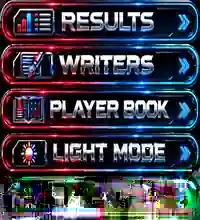
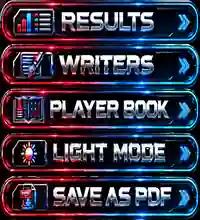
GAMBIT: verify exact neon button sprite bytes and refresh report stylesheet cache

Changed region(s): [[0.0, 0.7091, 1.0, 1.0]]

diff --git a/cfb/index.html b/cfb/index.html
@@ -91,7 +91,7 @@ code{font-family:Consolas,monospace;font-size:.88em;color:var(--code);}
 #g7:checked ~ .shell .rail label[for=g7]{background:var(--accent);color:#fff;border-color:var(--accent);}
 #g7:checked ~ .shell main .p7{display:block;}
 .site-header{position:sticky;top:0;z-index:50;background:var(--bg,#161616);border-bottom:1px solid var(--rail-line,#393939);padding:.35rem .75rem;}a.gambit-home{display:block;line-height:0;text-decoration:none;border-radius:.55rem;overflow:hidden;max-width:64rem;margin:0 auto;}a.gambit-home img{display:block;width:100%;height:auto;}.rail button.theme{display:block;width:100%;box-sizing:border-box;font:inherit;font-size:.88rem;font-weight:700;cursor:pointer;background:transparent;color:var(--pill-fg,var(--fg));border:1px solid var(--pill-line,var(--line,#525252));border-radius:.5rem;padding:.62rem .85rem;min-height:2.35rem;text-align:center;}.rail button.theme:hover{background:var(--pill-hover,var(--pill,#393939));}</style>
-<link rel="stylesheet" data-gambit-responsive="1" href="../assets/gambit-responsive.css?v=20261029"/>
+<link rel="stylesheet" data-gambit-responsive="1" href="../assets/gambit-responsive.css?v=20261030-nav2"/>
 </head><body>
 <header class="site-header noprint"><a class="gambit-home" href="../hub.html"><img src="../assets/gambit-home.jpg" alt="GAMBIT Home"/></a></header>
 <input class="tab" type="radio" name="g" id="g0" checked/>

diff --git a/nfl/2026-09-20.html b/nfl/2026-09-20.html
@@ -129,7 +129,7 @@ html.rail-closed .rail > *:not(.rail-head){display:none !important;}
 html.rail-closed .rail .rail-head{margin:0;width:100%;}
 html.rail-closed .rail .rail-head .brand{display:none;}
 .site-header{position:sticky;top:0;z-index:50;background:var(--bg,#161616);border-bottom:1px solid var(--rail-line,#393939);padding:.35rem .75rem;}a.gambit-home{display:block;line-height:0;text-decoration:none;border-radius:.55rem;overflow:hidden;max-width:64rem;margin:0 auto;}a.gambit-home img{display:block;width:100%;height:auto;}.rail button.theme{display:block;width:100%;box-sizing:border-box;font:inherit;font-size:.88rem;font-weight:700;cursor:pointer;background:transparent;color:var(--pill-fg,var(--fg));border:1px solid var(--pill-line,var(--line,#525252));border-radius:.5rem;padding:.62rem .85rem;min-height:2.35rem;text-align:center;}.rail button.theme:hover{background:var(--pill-hover,var(--pill,#393939));}</style>
-<link rel="stylesheet" data-gambit-responsive="1" href="../assets/gambit-responsive.css?v=20261029"/>
+<link rel="stylesheet" data-gambit-responsive="1" href="../assets/gambit-responsive.css?v=20261030-nav2"/>
 </head><body>
 <header class="site-header noprint"><a class="gambit-home" href="../hub.html"><img src="../assets/gambit-home.jpg" alt="GAMBIT Home"/></a></header>
 <input class="tab" type="radio" name="g" id="g0" checked/>

diff --git a/nfl/2026-09-27.html b/nfl/2026-09-27.html
@@ -127,7 +127,7 @@ html.rail-closed .rail > *:not(.rail-head){display:none !important;}
 html.rail-closed .rail .rail-head{margin:0;width:100%;}
 html.rail-closed .rail .rail-head .brand{display:none;}
 .site-header{position:sticky;top:0;z-index:50;background:var(--bg,#161616);border-bottom:1px solid var(--rail-line,#393939);padding:.35rem .75rem;}a.gambit-home{display:block;line-height:0;text-decoration:none;border-radius:.55rem;overflow:hidden;max-width:64rem;margin:0 auto;}a.gambit-home img{display:block;width:100%;height:auto;}.rail button.theme{display:block;width:100%;box-sizing:border-box;font:inherit;font-size:.88rem;font-weight:700;cursor:pointer;background:transparent;color:var(--pill-fg,var(--fg));border:1px solid var(--pill-line,var(--line,#525252));border-radius:.5rem;padding:.62rem .85rem;min-height:2.35rem;text-align:center;}.rail button.theme:hover{background:var(--pill-hover,var(--pill,#393939));}</style>
-<link rel="stylesheet" data-gambit-responsive="1" href="../assets/gambit-responsive.css?v=20261029"/>
+<link rel="stylesheet" data-gambit-responsive="1" href="../assets/gambit-responsive.css?v=20261030-nav2"/>
 </head><body>
 <header class="site-header noprint"><a class="gambit-home" href="../hub.html"><img src="../assets/gambit-home.jpg" alt="GAMBIT Home"/></a></header>
 <input class="tab" type="radio" name="g" id="g0" checked/>

diff --git a/nfl/2026-10-18.html b/nfl/2026-10-18.html
@@ -115,7 +115,7 @@ html.rail-closed .rail > *:not(.rail-head){display:none !important;}
 html.rail-closed .rail .rail-head{margin:0;width:100%;}
 html.rail-closed .rail .rail-head .brand{display:none;}
 .site-header{position:sticky;top:0;z-index:50;background:var(--bg,#161616);border-bottom:1px solid var(--rail-line,#393939);padding:.35rem .75rem;}a.gambit-home{display:block;line-height:0;text-decoration:none;border-radius:.55rem;overflow:hidden;max-width:64rem;margin:0 auto;}a.gambit-home img{display:block;width:100%;height:auto;}.rail button.theme{display:block;width:100%;box-sizing:border-box;font:inherit;font-size:.88rem;font-weight:700;cursor:pointer;background:transparent;color:var(--pill-fg,var(--fg));border:1px solid var(--pill-line,var(--line,#525252));border-radius:.5rem;padding:.62rem .85rem;min-height:2.35rem;text-align:center;}.rail button.theme:hover{background:var(--pill-hover,var(--pill,#393939));}</style>
-<link rel="stylesheet" data-gambit-responsive="1" href="../assets/gambit-responsive.css?v=20261029"/>
+<link rel="stylesheet" data-gambit-responsive="1" href="../assets/gambit-responsive.css?v=20261030-nav2"/>
 </head><body>
 <header class="site-header noprint"><a class="gambit-home" href="../hub.html"><img src="../assets/gambit-home.jpg" alt="GAMBIT Home"/></a></header>
 <input class="tab" type="radio" name="g" id="g0" checked/>

diff --git a/nfl/2026-10-19.html b/nfl/2026-10-19.html
@@ -101,7 +101,7 @@ html.rail-closed .rail > *:not(.rail-head){display:none !important;}
 html.rail-closed .rail .rail-head{margin:0;width:100%;}
 html.rail-closed .rail .rail-head .brand{display:none;}
 .site-header{position:sticky;top:0;z-index:50;background:var(--bg,#161616);border-bottom:1px solid var(--rail-line,#393939);padding:.35rem .75rem;}a.gambit-home{display:block;line-height:0;text-decoration:none;border-radius:.55rem;overflow:hidden;max-width:64rem;margin:0 auto;}a.gambit-home img{display:block;width:100%;height:auto;}.rail button.theme{display:block;width:100%;box-sizing:border-box;font:inherit;font-size:.88rem;font-weight:700;cursor:pointer;background:transparent;color:var(--pill-fg,var(--fg));border:1px solid var(--pill-line,var(--line,#525252));border-radius:.5rem;padding:.62rem .85rem;min-height:2.35rem;text-align:center;}.rail button.theme:hover{background:var(--pill-hover,var(--pill,#393939));}</style>
-<link rel="stylesheet" data-gambit-responsive="1" href="../assets/gambit-responsive.css?v=20261029"/>
+<link rel="stylesheet" data-gambit-responsive="1" href="../assets/gambit-responsive.css?v=20261030-nav2"/>
 </head><body>
 <header class="site-header noprint"><a class="gambit-home" href="../hub.html"><img src="../assets/gambit-home.jpg" alt="GAMBIT Home"/></a></header>
 <input class="tab" type="radio" name="g" id="g0" checked/>

diff --git a/cfb/2026-10-24.html b/cfb/2026-10-24.html
@@ -98,7 +98,7 @@ html.rail-closed .rail > *:not(.rail-head){display:none !important;}
 html.rail-closed .rail .rail-head{margin:0;width:100%;}
 html.rail-closed .rail .rail-head .brand{display:none;}
 .site-header{position:sticky;top:0;z-index:50;background:var(--bg,#161616);border-bottom:1px solid var(--rail-line,#393939);padding:.35rem .75rem;}a.gambit-home{display:block;line-height:0;text-decoration:none;border-radius:.55rem;overflow:hidden;max-width:64rem;margin:0 auto;}a.gambit-home img{display:block;width:100%;height:auto;}.rail button.theme{display:block;width:100%;box-sizing:border-box;font:inherit;font-size:.88rem;font-weight:700;cursor:pointer;background:transparent;color:var(--pill-fg,var(--fg));border:1px solid var(--pill-line,var(--line,#525252));border-radius:.5rem;padding:.62rem .85rem;min-height:2.35rem;text-align:center;}.rail button.theme:hover{background:var(--pill-hover,var(--pill,#393939));}</style>
-<link rel="stylesheet" data-gambit-responsive="1" href="../assets/gambit-responsive.css?v=20261029"/>
+<link rel="stylesheet" data-gambit-responsive="1" href="../assets/gambit-responsive.css?v=20261030-nav2"/>
 </head><body>
 <header class="site-header noprint"><a class="gambit-home" href="../hub.html"><img src="../assets/gambit-home.jpg" alt="GAMBIT Home"/></a></header>
 <input class="tab" type="radio" name="g" id="g0" checked/>

diff --git a/nfl/2026-09-14.html b/nfl/2026-09-14.html
@@ -82,7 +82,7 @@ html.rail-closed .rail > *:not(.rail-head){display:none !important;}
 html.rail-closed .rail .rail-head{margin:0;width:100%;}
 html.rail-closed .rail .rail-head .brand{display:none;}
 .site-header{position:sticky;top:0;z-index:50;background:var(--bg,#161616);border-bottom:1px solid var(--rail-line,#393939);padding:.35rem .75rem;}a.gambit-home{display:block;line-height:0;text-decoration:none;border-radius:.55rem;overflow:hidden;max-width:64rem;margin:0 auto;}a.gambit-home img{display:block;width:100%;height:auto;}.rail button.theme{display:block;width:100%;box-sizing:border-box;font:inherit;font-size:.88rem;font-weight:700;cursor:pointer;background:transparent;color:var(--pill-fg,var(--fg));border:1px solid var(--pill-line,var(--line,#525252));border-radius:.5rem;padding:.62rem .85rem;min-height:2.35rem;text-align:center;}.rail button.theme:hover{background:var(--pill-hover,var(--pill,#393939));}</style>
-<link rel="stylesheet" data-gambit-responsive="1" href="../assets/gambit-responsive.css?v=20261029"/>
+<link rel="stylesheet" data-gambit-responsive="1" href="../assets/gambit-responsive.css?v=20261030-nav2"/>
 </head><body>
 <header class="site-header noprint"><a class="gambit-home" href="../hub.html"><img src="../assets/gambit-home.jpg" alt="GAMBIT Home"/></a></header>
 <input class="tab" type="radio" name="g" id="g0" checked/>

diff --git a/nfl/2026-09-17.html b/nfl/2026-09-17.html
@@ -82,7 +82,7 @@ html.rail-closed .rail > *:not(.rail-head){display:none !important;}
 html.rail-closed .rail .rail-head{margin:0;width:100%;}
 html.rail-closed .rail .rail-head .brand{display:none;}
 .site-header{position:sticky;top:0;z-index:50;background:var(--bg,#161616);border-bottom:1px solid var(--rail-line,#393939);padding:.35rem .75rem;}a.gambit-home{display:block;line-height:0;text-decoration:none;border-radius:.55rem;overflow:hidden;max-width:64rem;margin:0 auto;}a.gambit-home img{display:block;width:100%;height:auto;}.rail button.theme{display:block;width:100%;box-sizing:border-box;font:inherit;font-size:.88rem;font-weight:700;cursor:pointer;background:transparent;color:var(--pill-fg,var(--fg));border:1px solid var(--pill-line,var(--line,#525252));border-radius:.5rem;padding:.62rem .85rem;min-height:2.35rem;text-align:center;}.rail button.theme:hover{background:var(--pill-hover,var(--pill,#393939));}</style>
-<link rel="stylesheet" data-gambit-responsive="1" href="../assets/gambit-responsive.css?v=20261029"/>
+<link rel="stylesheet" data-gambit-responsive="1" href="../assets/gambit-responsive.css?v=20261030-nav2"/>
 </head><body>
 <header class="site-header noprint"><a class="gambit-home" href="../hub.html"><img src="../assets/gambit-home.jpg" alt="GAMBIT Home"/></a></header>
 <input class="tab" type="radio" name="g" id="g0" checked/>

diff --git a/nfl/2026-10-29.html b/nfl/2026-10-29.html
@@ -102,7 +102,7 @@ h3.cursor-picks-title{display:block;width:max-content;max-width:100%;font-size:1
 html.light h3.cursor-picks-title{border-bottom-color:#8a6410;background:linear-gradient(180deg,#a67c12,#5c4308);-webkit-background-clip:text;background-clip:text;color:transparent;-webkit-text-fill-color:transparent;}
 @media print{.gpt-picks-block h3,h3.cursor-picks-title{color:#111 !important;-webkit-text-fill-color:#111 !important;background:none !important;border-bottom-color:#111 !important;}}
 </style>
-<link rel="stylesheet" data-gambit-responsive="1" href="../assets/gambit-responsive.css?v=20261029b"/>
+<link rel="stylesheet" data-gambit-responsive="1" href="../assets/gambit-responsive.css?v=20261030-nav2"/>
 </head><body>
 <header class="site-header noprint"><a class="gambit-home" href="../hub.html"><img src="../assets/gambit-home.jpg" alt="GAMBIT Home"/></a></header>
 <input class="tab" type="radio" name="g" id="g0" checked/>

diff --git a/nfl/index.html b/nfl/index.html
@@ -102,7 +102,7 @@ h3.cursor-picks-title{display:block;width:max-content;max-width:100%;font-size:1
 html.light h3.cursor-picks-title{border-bottom-color:#8a6410;background:linear-gradient(180deg,#a67c12,#5c4308);-webkit-background-clip:text;background-clip:text;color:transparent;-webkit-text-fill-color:transparent;}
 @media print{.gpt-picks-block h3,h3.cursor-picks-title{color:#111 !important;-webkit-text-fill-color:#111 !important;background:none !important;border-bottom-color:#111 !important;}}
 </style>
-<link rel="stylesheet" data-gambit-responsive="1" href="../assets/gambit-responsive.css?v=20261029b"/>
+<link rel="stylesheet" data-gambit-responsive="1" href="../assets/gambit-responsive.css?v=20261030-nav2"/>
 </head><body>
 <header class="site-header noprint"><a class="gambit-home" href="../hub.html"><img src="../assets/gambit-home.jpg" alt="GAMBIT Home"/></a></header>
 <input class="tab" type="radio" name="g" id="g0" checked/>

diff --git a/nfl/2026-10-25.html b/nfl/2026-10-25.html
@@ -112,7 +112,7 @@ code{font-family:Consolas,monospace;font-size:.88em;color:var(--code);}
 #g14:checked ~ .shell .rail label[for=g14]{background:var(--accent);color:#fff;border-color:var(--accent);}
 #g14:checked ~ .shell main .p14{display:block;}
 </style>
-<link rel="stylesheet" data-gambit-responsive="1" href="../assets/gambit-responsive.css?v=20261029"/>
+<link rel="stylesheet" data-gambit-responsive="1" href="../assets/gambit-responsive.css?v=20261030-nav2"/>
 </head><body>
 <header class="site-header noprint"><a class="gambit-home" href="../hub.html"><img src="../assets/gambit-home.jpg" alt="GAMBIT Home"/></a></header>
 <input class="tab" type="radio" name="g" id="g0" checked/>

diff --git a/nfl/2026-11-01.html b/nfl/2026-11-01.html
@@ -114,7 +114,7 @@ code{font-family:Consolas,monospace;font-size:.88em;color:var(--code);}
 #g15:checked ~ .shell .rail label[for=g15]{background:var(--accent);color:#fff;border-color:var(--accent);}
 #g15:checked ~ .shell main .p15{display:block;}
 </style>
-<link rel="stylesheet" data-gambit-responsive="1" href="../assets/gambit-responsive.css?v=20261029"/>
+<link rel="stylesheet" data-gambit-responsive="1" href="../assets/gambit-responsive.css?v=20261030-nav2"/>
 </head><body>
 <header class="site-header noprint"><a class="gambit-home" href="../hub.html"><img src="../assets/gambit-home.jpg" alt="GAMBIT Home"/></a></header>
 <input class="tab" type="radio" name="g" id="g0" checked/>
